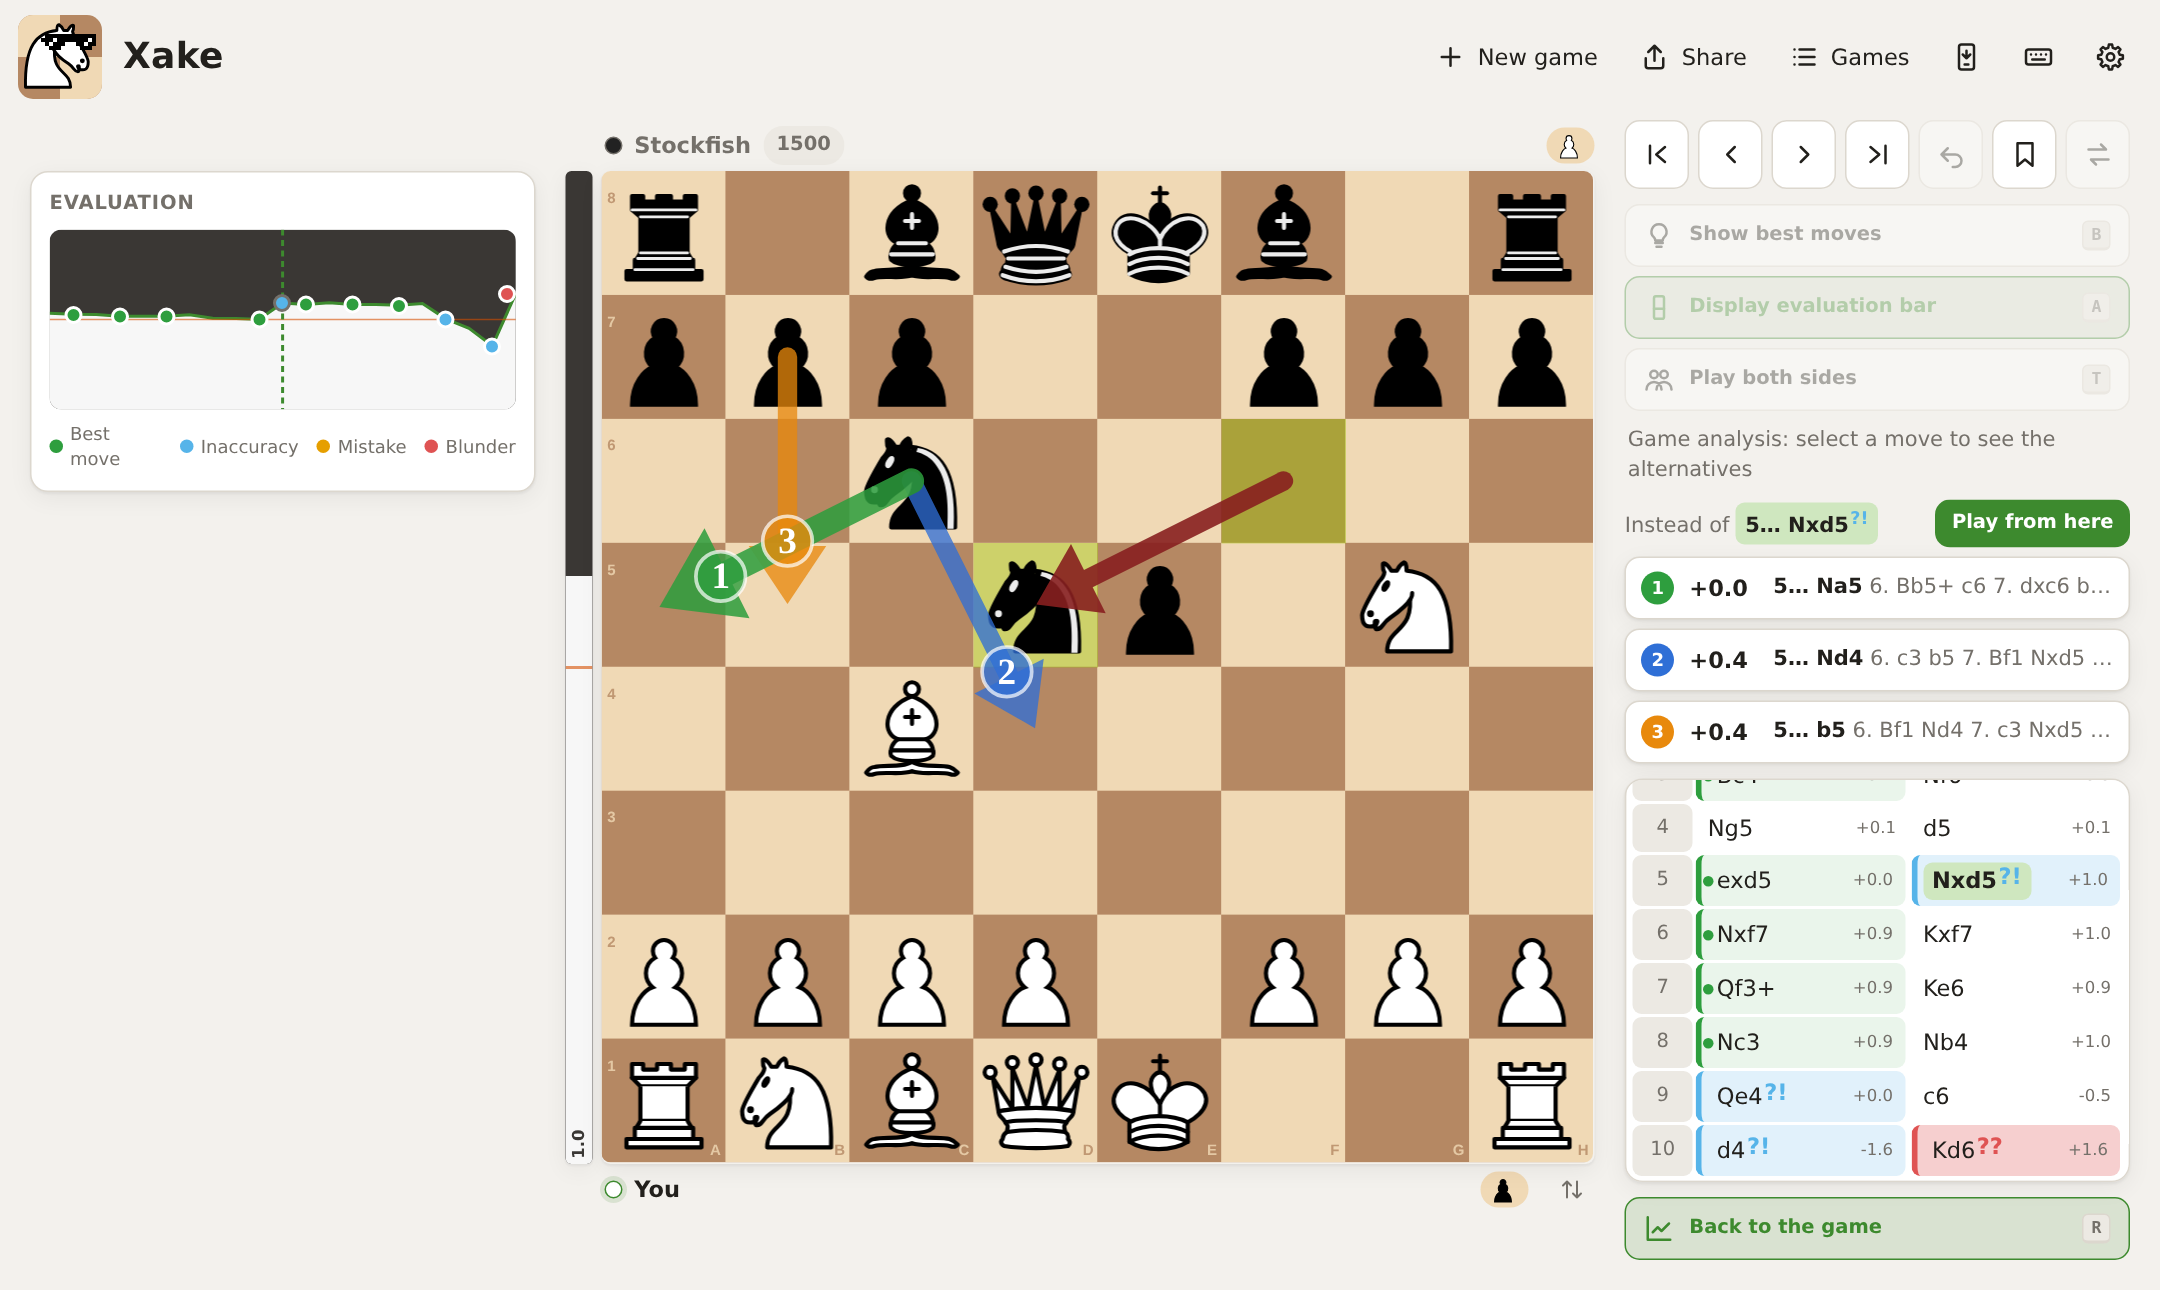
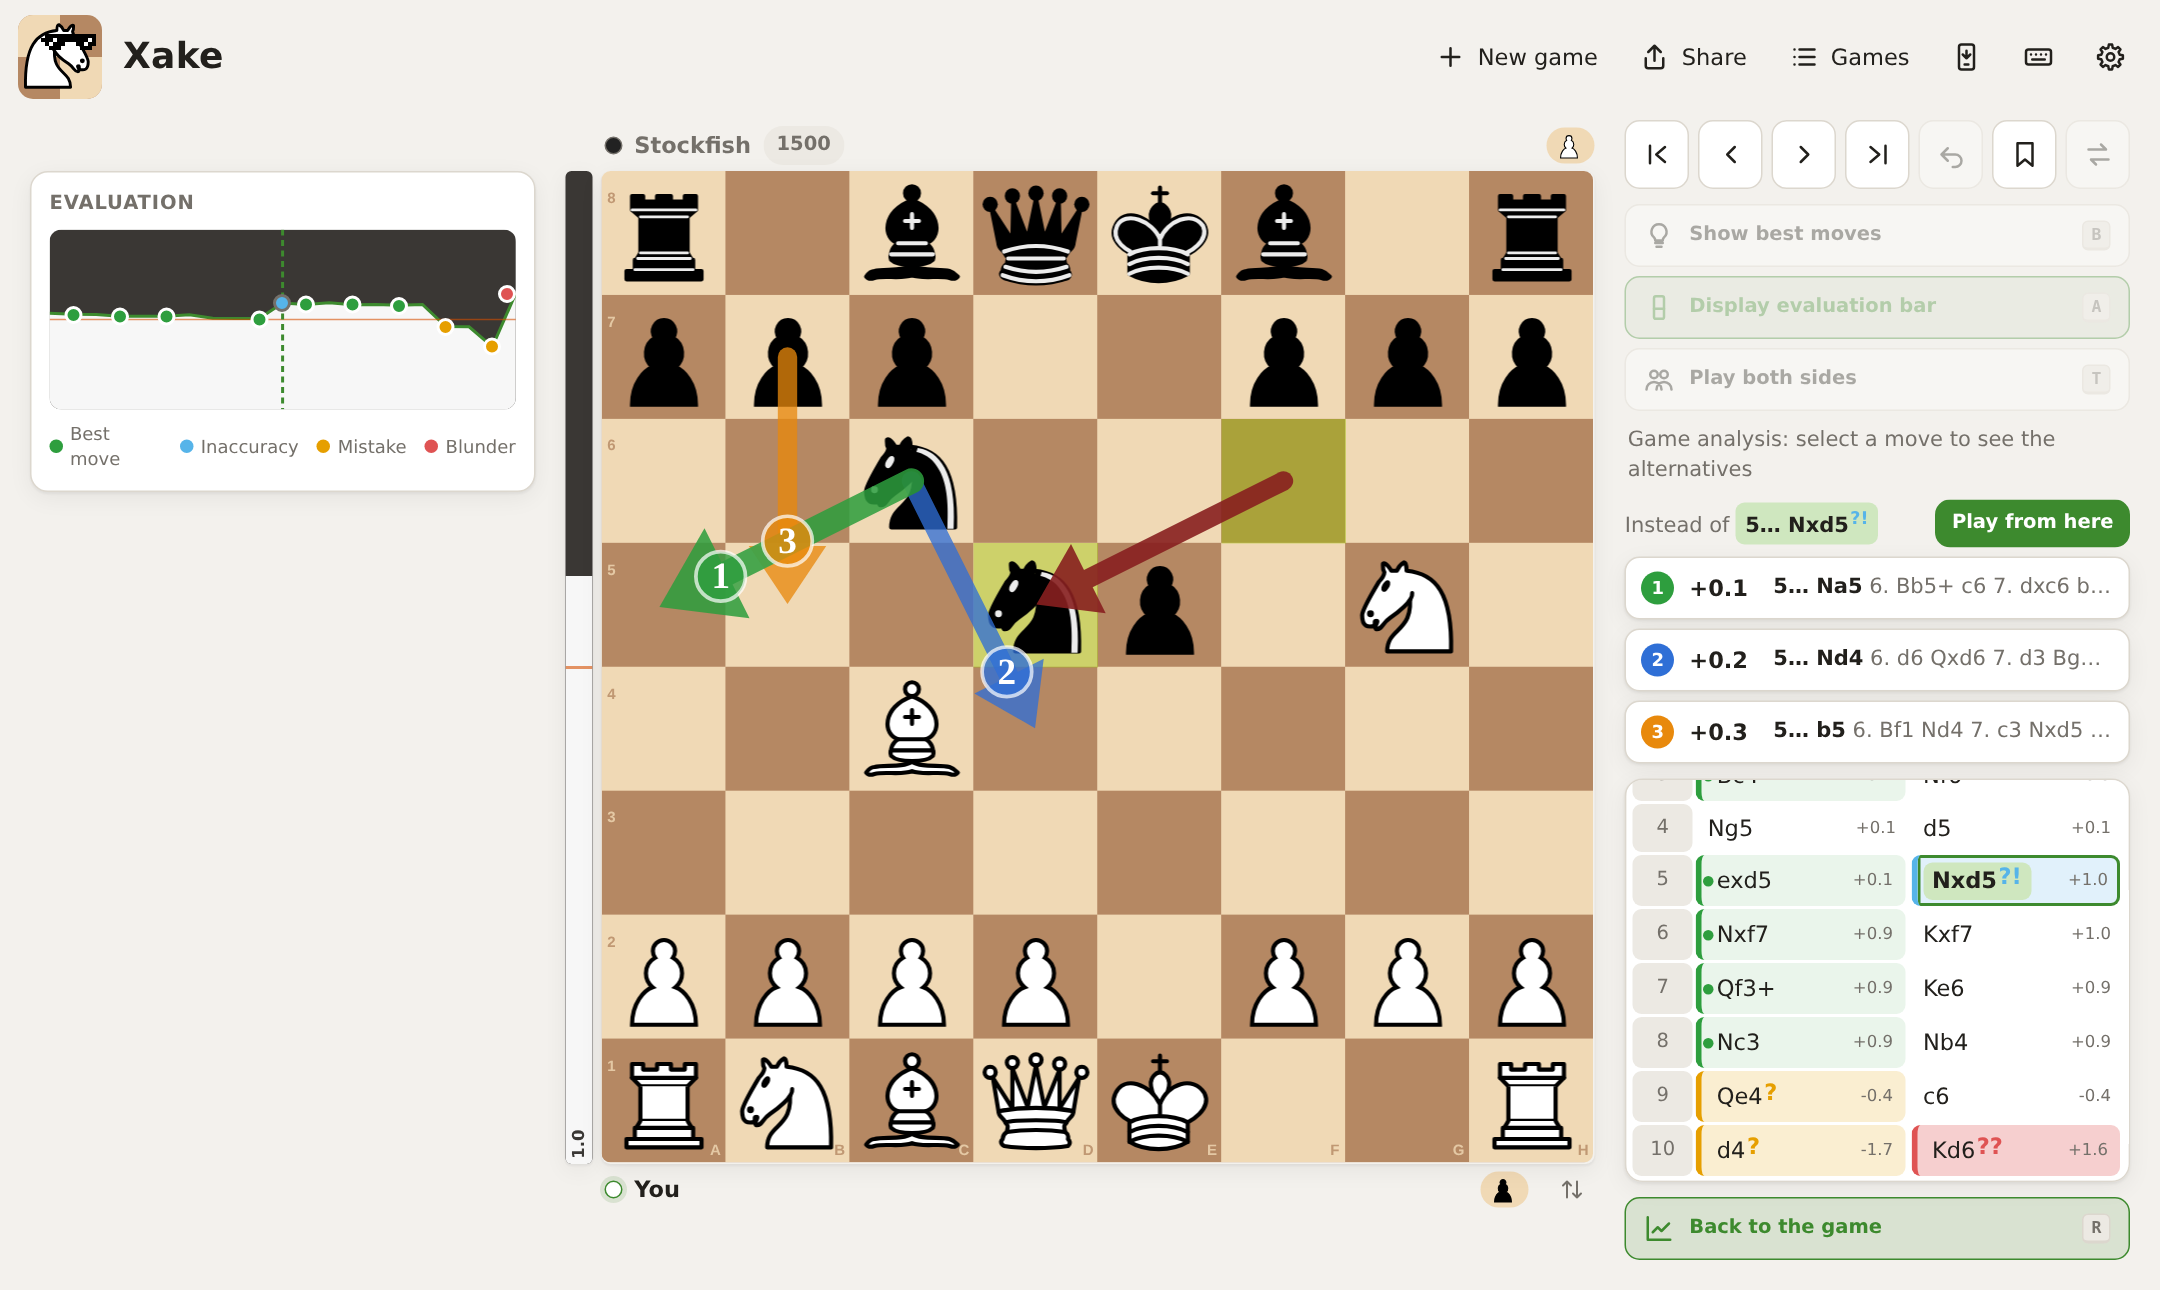
💄 Ring the current move in the move list, visible over the judged colours

Changed region(s): [[0.7755, 0.8062, 0.8995, 0.9302], [0.8685, 0.4961, 0.9616, 0.5271], [0.1861, 0.2171, 0.2171, 0.2481]]

diff --git a/src/css/app.css b/src/css/app.css
@@ -1014,6 +1014,12 @@ cg-board square.check {
   background: color-mix(in srgb, var(--judged) 28%, transparent);
 }
 
+/* The ring stays visible over the judged colours, where the pale current background gets lost (spec 004 §3). */
+.moves .cell:has(> .mv.current) {
+  border-radius: 6px;
+  box-shadow: inset 0 0 0 2px var(--accent);
+}
+
 .moves .cell[class*="judged-"] .glyph {
   font-size: 15px;
   line-height: 1;

diff --git a/docs/specs/004-review.md b/docs/specs/004-review.md
@@ -29,7 +29,8 @@
   partie ou recharger revient au mode jeu.
 - Affiche la courbe d'évaluation (spec 002 §4) et colore la case des coups jugés dans la liste :
   liseré gauche et fond de la couleur du jugement (plus marqué pour une gaffe, discret pour un
-  meilleur coup), glyphe agrandi.
+  meilleur coup), glyphe agrandi. La case du coup affiché porte un contour de la couleur d'accent :
+  son fond vert pâle seul se perdait parmi les cases colorées, notamment après un clic sur la courbe.
 - Stockfish ne joue jamais ; le plateau n'accepte de coup qu'après un coup de Stockfish (§4). Annuler, changer de camp, deux camps,
   les meilleurs coups et la barre d'évaluation (toujours affichée ici) sont désactivés. La navigation (liste, ◀ ▶, courbe, signets)
   reste libre.
